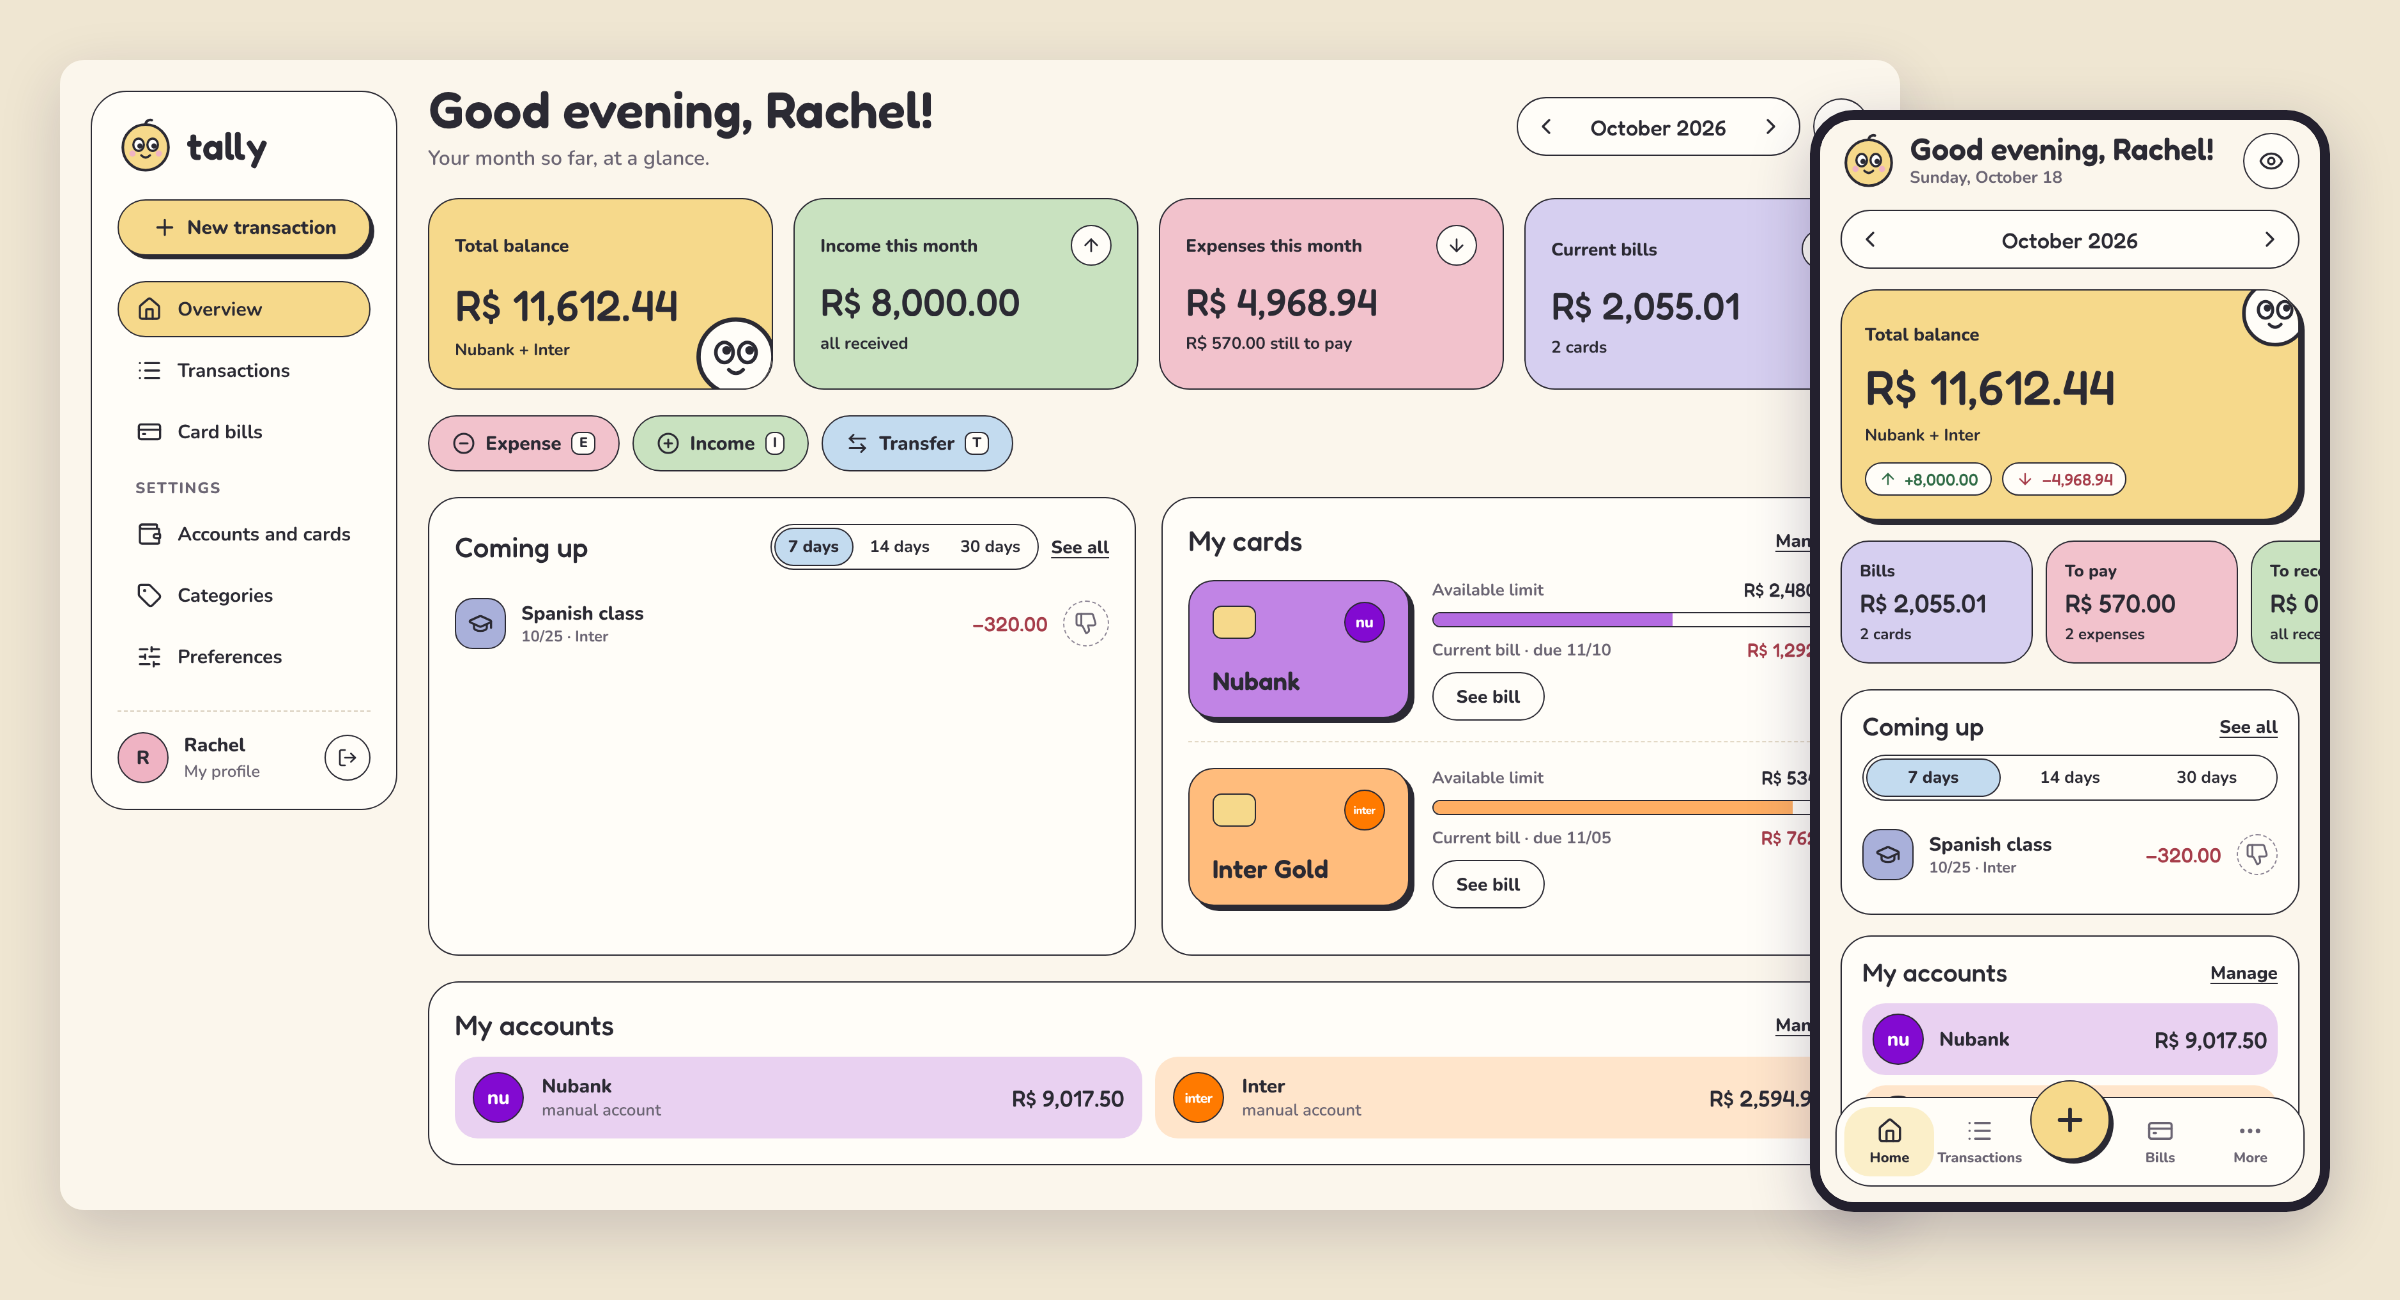
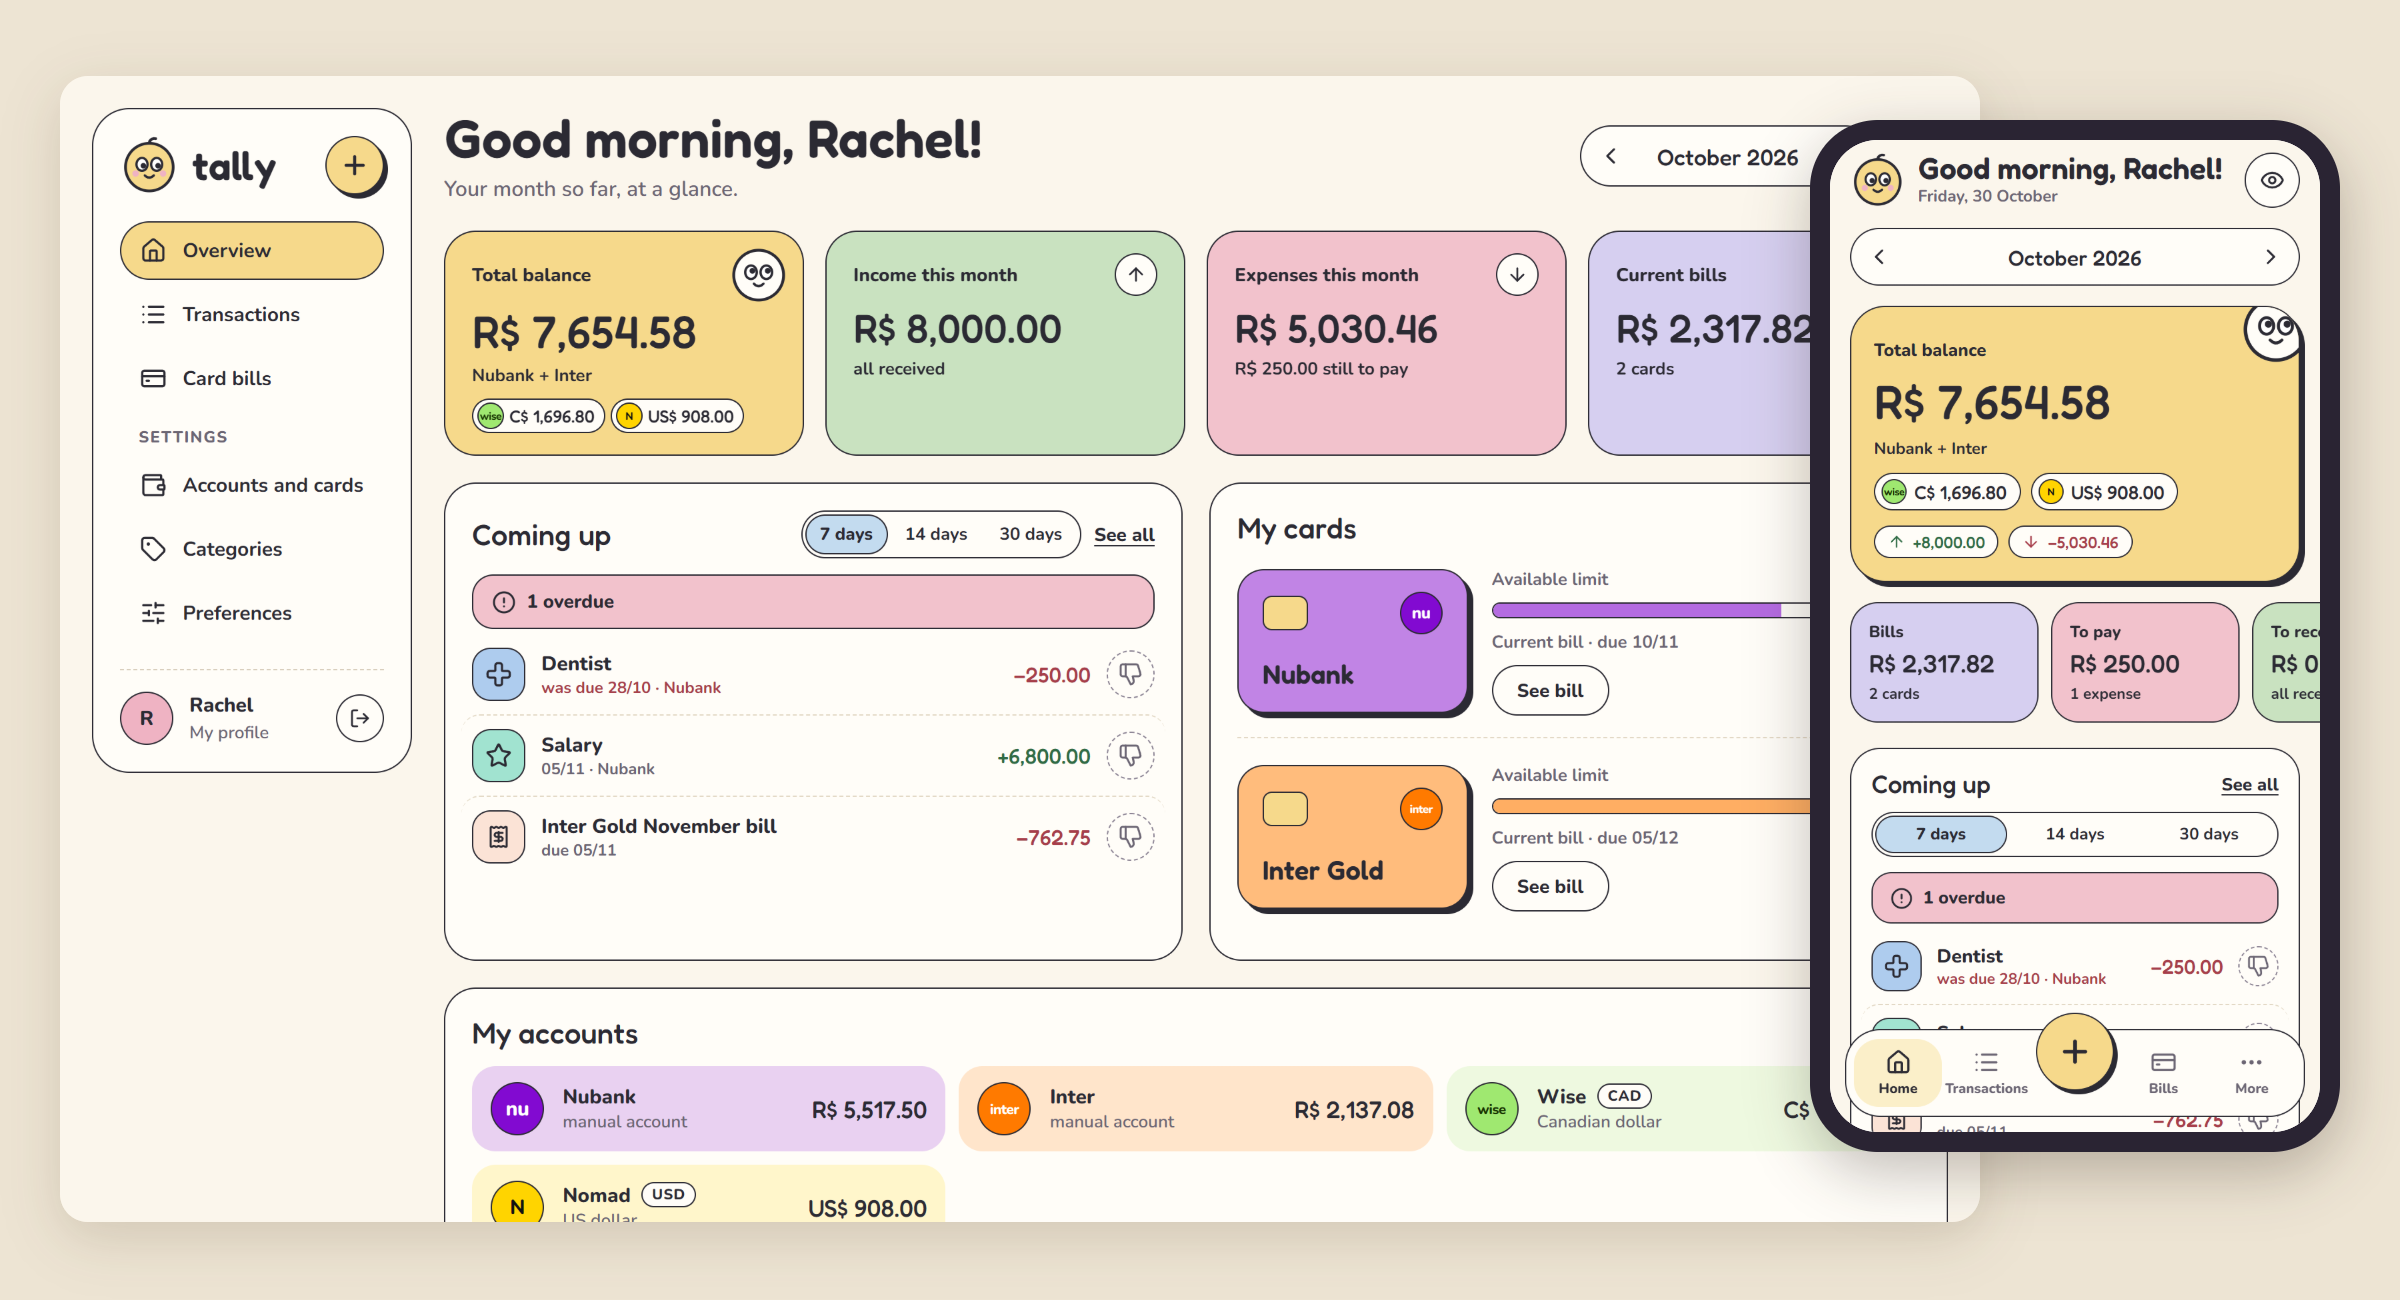
docs(readme): update features, balances and screenshots (#29)

Changed region(s): [[0.0312, 0.0308, 1.0, 0.9538]]

diff --git a/README.md b/README.md
@@ -2,7 +2,7 @@
 
 A personal finance app for tracking accounts, credit card bills and upcoming payments, built around how money actually moves in Brazil.
 
-![Tally's overview on desktop and phone: a cream page with pastel cards for total balance, income, expenses and card bills, a "Coming up" list of payments, and the two credit cards with their available limit. The phone version on the right shows the same numbers with a bottom tab bar and a large plus button.](screenshots/preview.png)
+![Tally's overview on desktop and phone: a cream page with pastel cards for total balance, income, expenses and card bills, a "Coming up" list that opens with one overdue payment, and the two credit cards with their available limit. The phone version on the right shows the same numbers with a bottom tab bar and a large plus button.](screenshots/preview.png)
 
 **[Live demo](https://tallycoin.vercel.app/demo)** (sample data kept in your browser, no sign-up)
 
@@ -12,18 +12,23 @@ Money in Brazil runs on the credit card: purchases split into instalments, bills
 
 ## Features
 
-- Accounts and credit cards, each card with its limit, closing day and due day; purchases land on the right bill automatically
-- Fixed (recurring) entries and instalment purchases, shown as "2/4" on each bill
+- Accounts and credit cards, each card with its limit, closing day and due day; purchases land on the right bill automatically, and a new closing or due day can apply right away or only from the next bill
+- Fixed (recurring) entries and instalment purchases, shown as "2/4" on each bill; a card instalment keeps the purchase date and can be moved to another bill, along with the ones after it
 - Two views of the same month: **Cash flow** shows each unpaid card bill as one expense on its due date, **All transactions** shows every purchase instead
+- An optional end-of-day balance on each date, which matches the bank up to today and becomes a forecast after it
+- Previous balance can be left out of the forecast with a tap, to see only the period's own money
 - Pay a card bill in full or in part, from any account
+- Transfers can be marked done or pending, and a pending one only counts in the forecast
 - Savings accounts kept out of the balance, income and expense totals, with a toggle to show the amount saved
+- Past descriptions suggested in the new-entry form; picking one copies its category and account or card
 - Categories with subcategories, tags, file attachments, search and filters, and export to CSV
 - Accounts in other currencies (US dollar, euro, pound, Canadian dollar); a transfer between currencies keeps both amounts and shows the rate you actually paid
+- Month summary on the desktop overview as four boxes or as a till receipt
 - Light and dark themes, English and Portuguese, keyboard shortcuts (E, I, T) for a new expense, income or transfer
 
-![The Transactions screen in Cash flow view: entries grouped by day with category icons, amounts and paid or unpaid buttons, a "Bill payment" row moving money from Nubank to the Nubank card, and a "Period balance" pill at the bottom.](screenshots/transactions.png)
+![The Transactions screen in Cash flow view: entries grouped by day with category icons, amounts and paid or unpaid buttons, a soft yellow band on each date with the end-of-day balance at its right end, and a "Period balance" pill at the bottom.](screenshots/transactions.png)
 
-![A card bill: a purple Nubank card next to "November bill", due 11/10 and closing 11/03, with a bar of limit used, a breakdown by category, and the purchases on the bill, including "New glasses 2/4".](screenshots/card-bill.png)
+![A card bill: a purple Nubank card next to "November bill", due 10/11 and closing 03/11, with a bar of limit used, a breakdown by category, and the purchases on the bill, including "New glasses 2/4" dated 22/09, the day it was bought.](screenshots/card-bill.png)
 
 ## How it works
 
@@ -31,13 +36,13 @@ Money in Brazil runs on the credit card: purchases split into instalments, bills
 
 **Money is stored in integer cents.** Amounts are `bigint` columns, never floats, so R$ 0.10 + R$ 0.20 is always R$ 0.30. Instalments are split in cents with the rounding remainder on the first one, so the parts always add up to the purchase.
 
-**Balances are derived, not stored.** There's no balance column to drift out of sync. An account's balance is its opening amount plus every transaction that touches it, computed in pure functions (`src/lib/balances.ts`) that are unit-tested. A card purchase stores only which bill it belongs to (`invoice_month`), picked from the card's closing day when it's saved; bill totals, what's left to pay and the available limit are all computed from those rows (`src/lib/cards.ts`). The Cash flow view swaps card purchases for one generated "bill" row per unpaid invoice, so the month reads like a bank statement.
+**Balances are derived, not stored.** There's no balance column to drift out of sync. An account's balance is its opening amount plus the transactions that touch it, computed in pure functions (`src/lib/balances.ts`) that are unit-tested. Each account gets two numbers: the current balance counts only what's paid and dated up to today, so it matches the bank, and the forecast adds everything still pending. A card purchase stores only which bill it belongs to (`invoice_month`), picked from the card's closing day when it's saved and open to changing by hand; bill totals, what's left to pay and the available limit are all computed from those rows (`src/lib/cards.ts`). A new closing or due day can start from the next bill: the card keeps its old days and the bill they stop at (`days_from`), so bills already open keep their dates. The Cash flow view swaps card purchases for one generated "bill" row per unpaid invoice, so the month reads like a bank statement.
 
 **The database rejects impossible transactions.** One `transactions` table holds expenses, income, transfers and bill payments, and check constraints spell out what each kind must have: an expense comes from an account or a card but never both, a transfer needs a destination account, a bill payment needs an account and a card, and only card entries carry a bill month. A bug in the interface can't write a half-formed row.
 
 **Currencies keep what you typed, not a conversion.** Each account has one currency, and a transfer between currencies stores both sides: the amount that left and the amount that landed (`to_amount_cents`). The rate is derived from those two numbers, so it's the rate your bank actually gave you, fees included. Totals add up only accounts in your main currency; money sent abroad shows as its own slice, like savings. An approximate converted total is optional and off by default: it fetches the European Central Bank's daily rates from Frankfurter, which needs no API key, caches them for hours, and nothing stored ever depends on them.
 
-**Recurring entries are real rows.** A fixed entry creates its occurrences up to a year ahead, all linked to a series. Each one can then be edited, paid or deleted on its own, or together with the ones after it, which is what makes "change this and the following" possible.
+**Recurring entries are real rows.** A fixed entry creates its occurrences up to a year ahead, all linked to a series, and the app tops the series up each time it loads. Each one can then be edited, paid or deleted on its own, or together with the ones after it, which is what makes "change this and the following" possible. Instalments on a card work the other way round: they all keep the purchase date, and each one goes to a later bill.
 
 **State lives in TanStack Query.** Each table is one cached query, and every save invalidates it, so all screens agree after a change. The demo swaps the Supabase table layer for one backed by localStorage with generated sample data, and every screen runs unchanged on top of it.
 
@@ -48,7 +53,7 @@ Money in Brazil runs on the credit card: purchases split into instalments, bills
 - **Frontend:** React 19, TypeScript, Vite, React Router, TanStack Query, lucide-react icons; plain CSS
 - **Back end:** Supabase (Postgres with row-level security, Auth, Storage), schema in SQL migrations
 - **Hosting:** Vercel, with a preview deployment for every pull request
-- **Tests:** Vitest for balances, card bill dates, recurring series and period summaries
+- **Tests:** Vitest for money, dates, balances, card bill dates, recurring series, period summaries and description suggestions
 
 ## Running it locally
 
@@ -80,7 +85,6 @@ Both come from your project's API settings. The publishable key is meant to be p
 
 ## What I'd improve
 
-- [ ] Fixed entries are created a year ahead and aren't extended after that yet. A recurring bill set up today stops appearing after next year
 - [ ] No bank statement import. Every transaction is typed in by hand
 - [ ] No password reset on the sign-in screen
 - [ ] The app loads every transaction into the browser and computes totals there. That's instant for one person's history, but it would need database-side aggregates for years of heavy use
